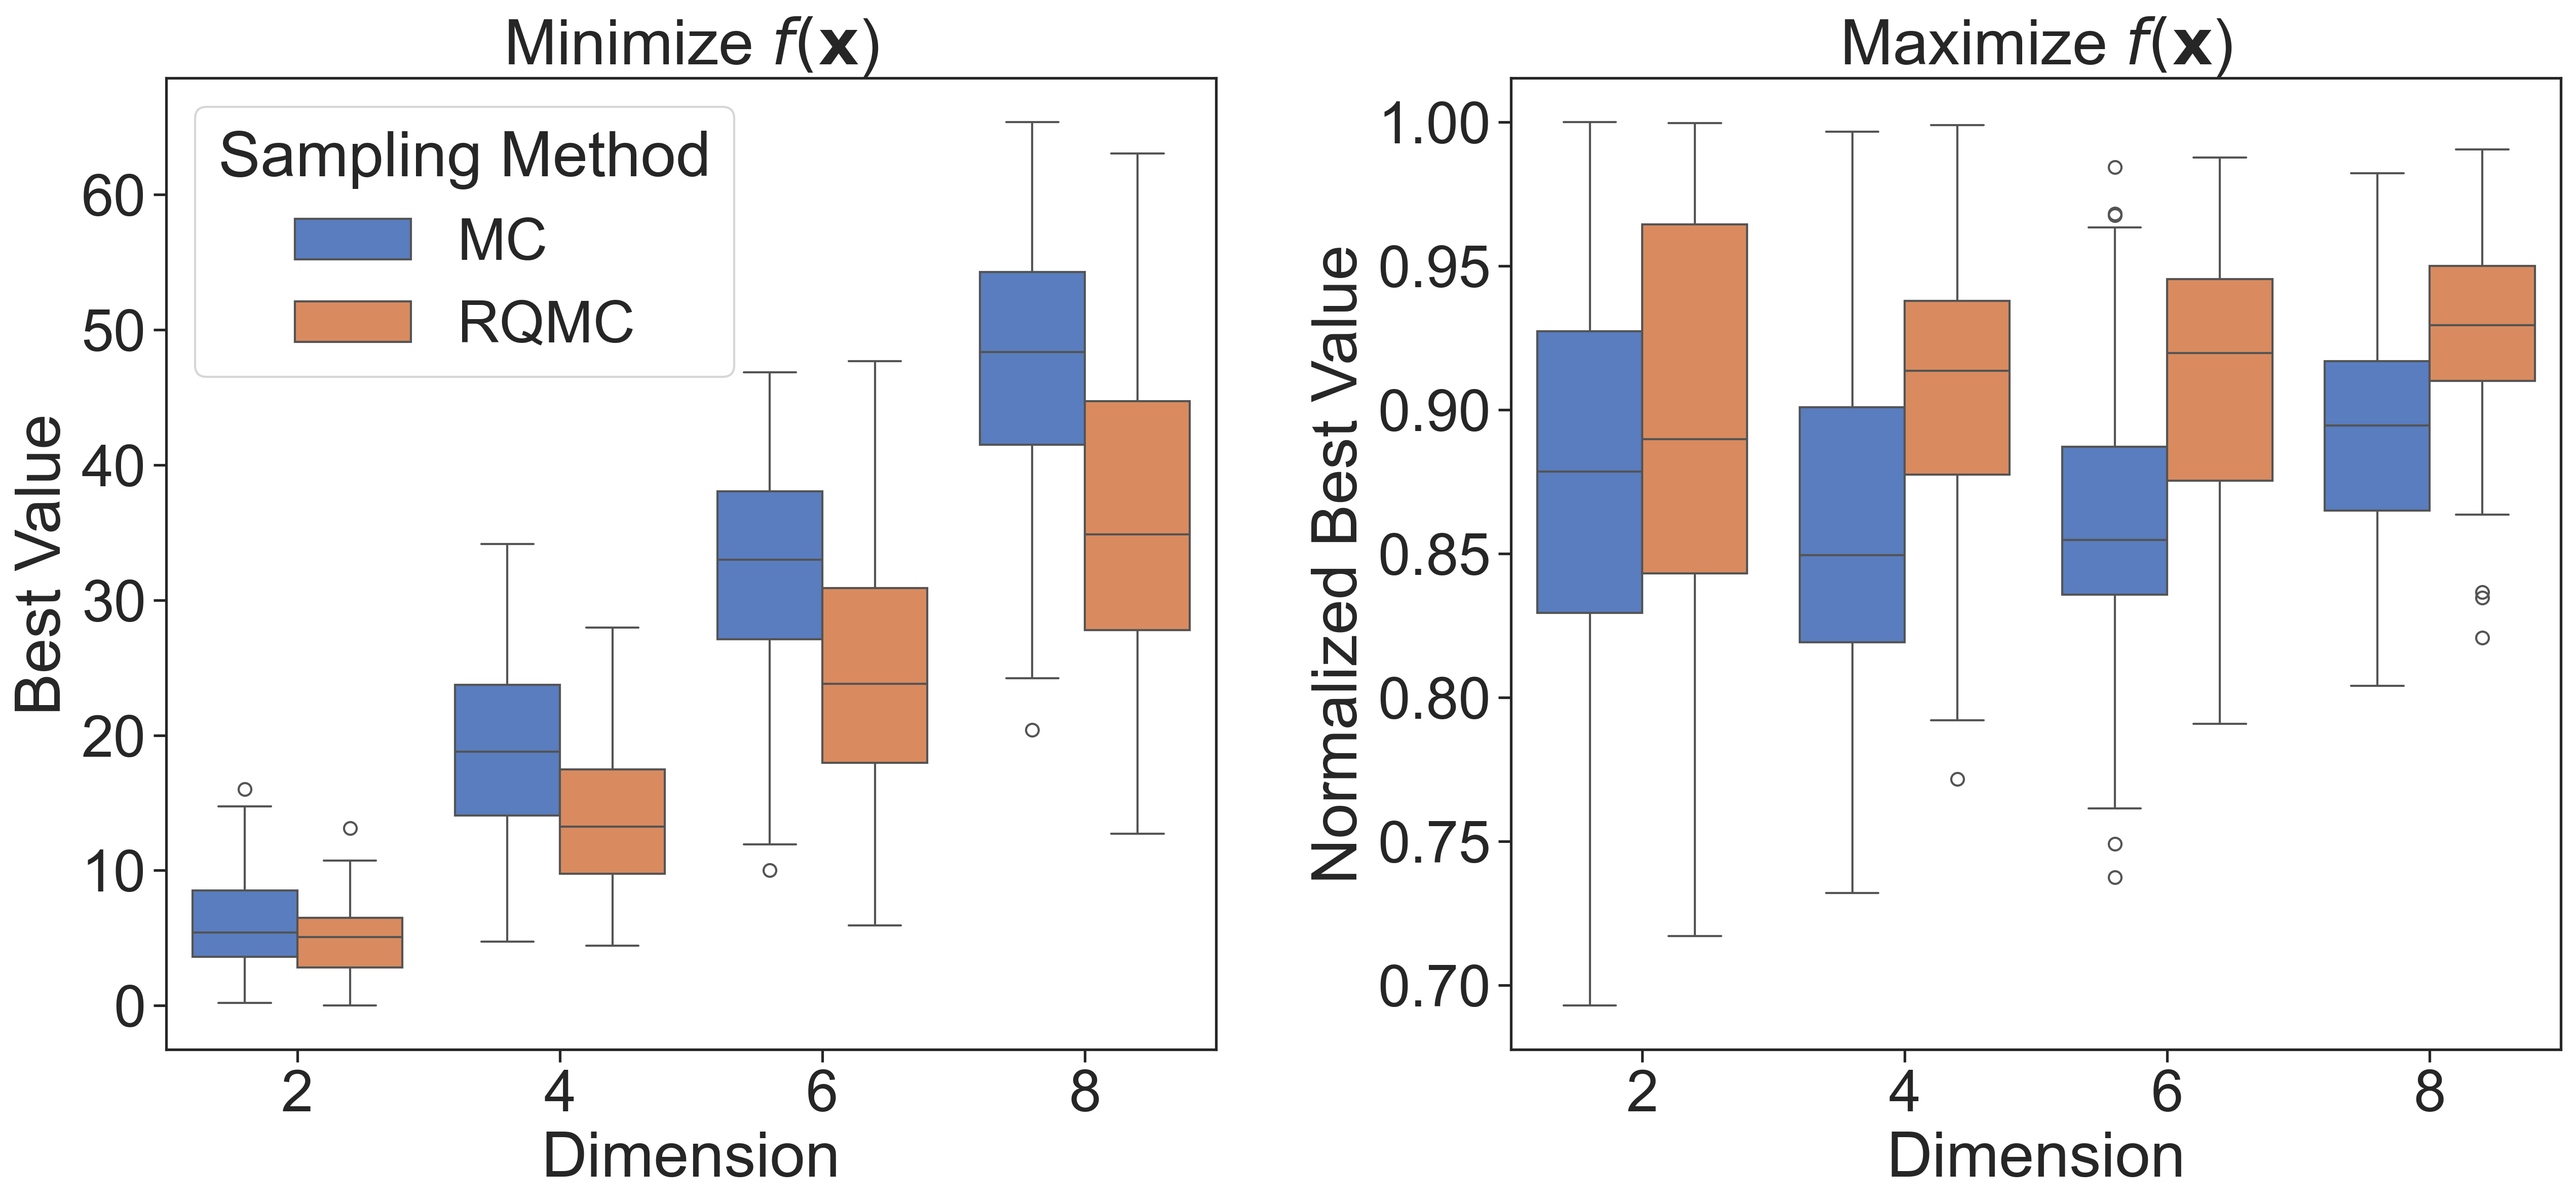
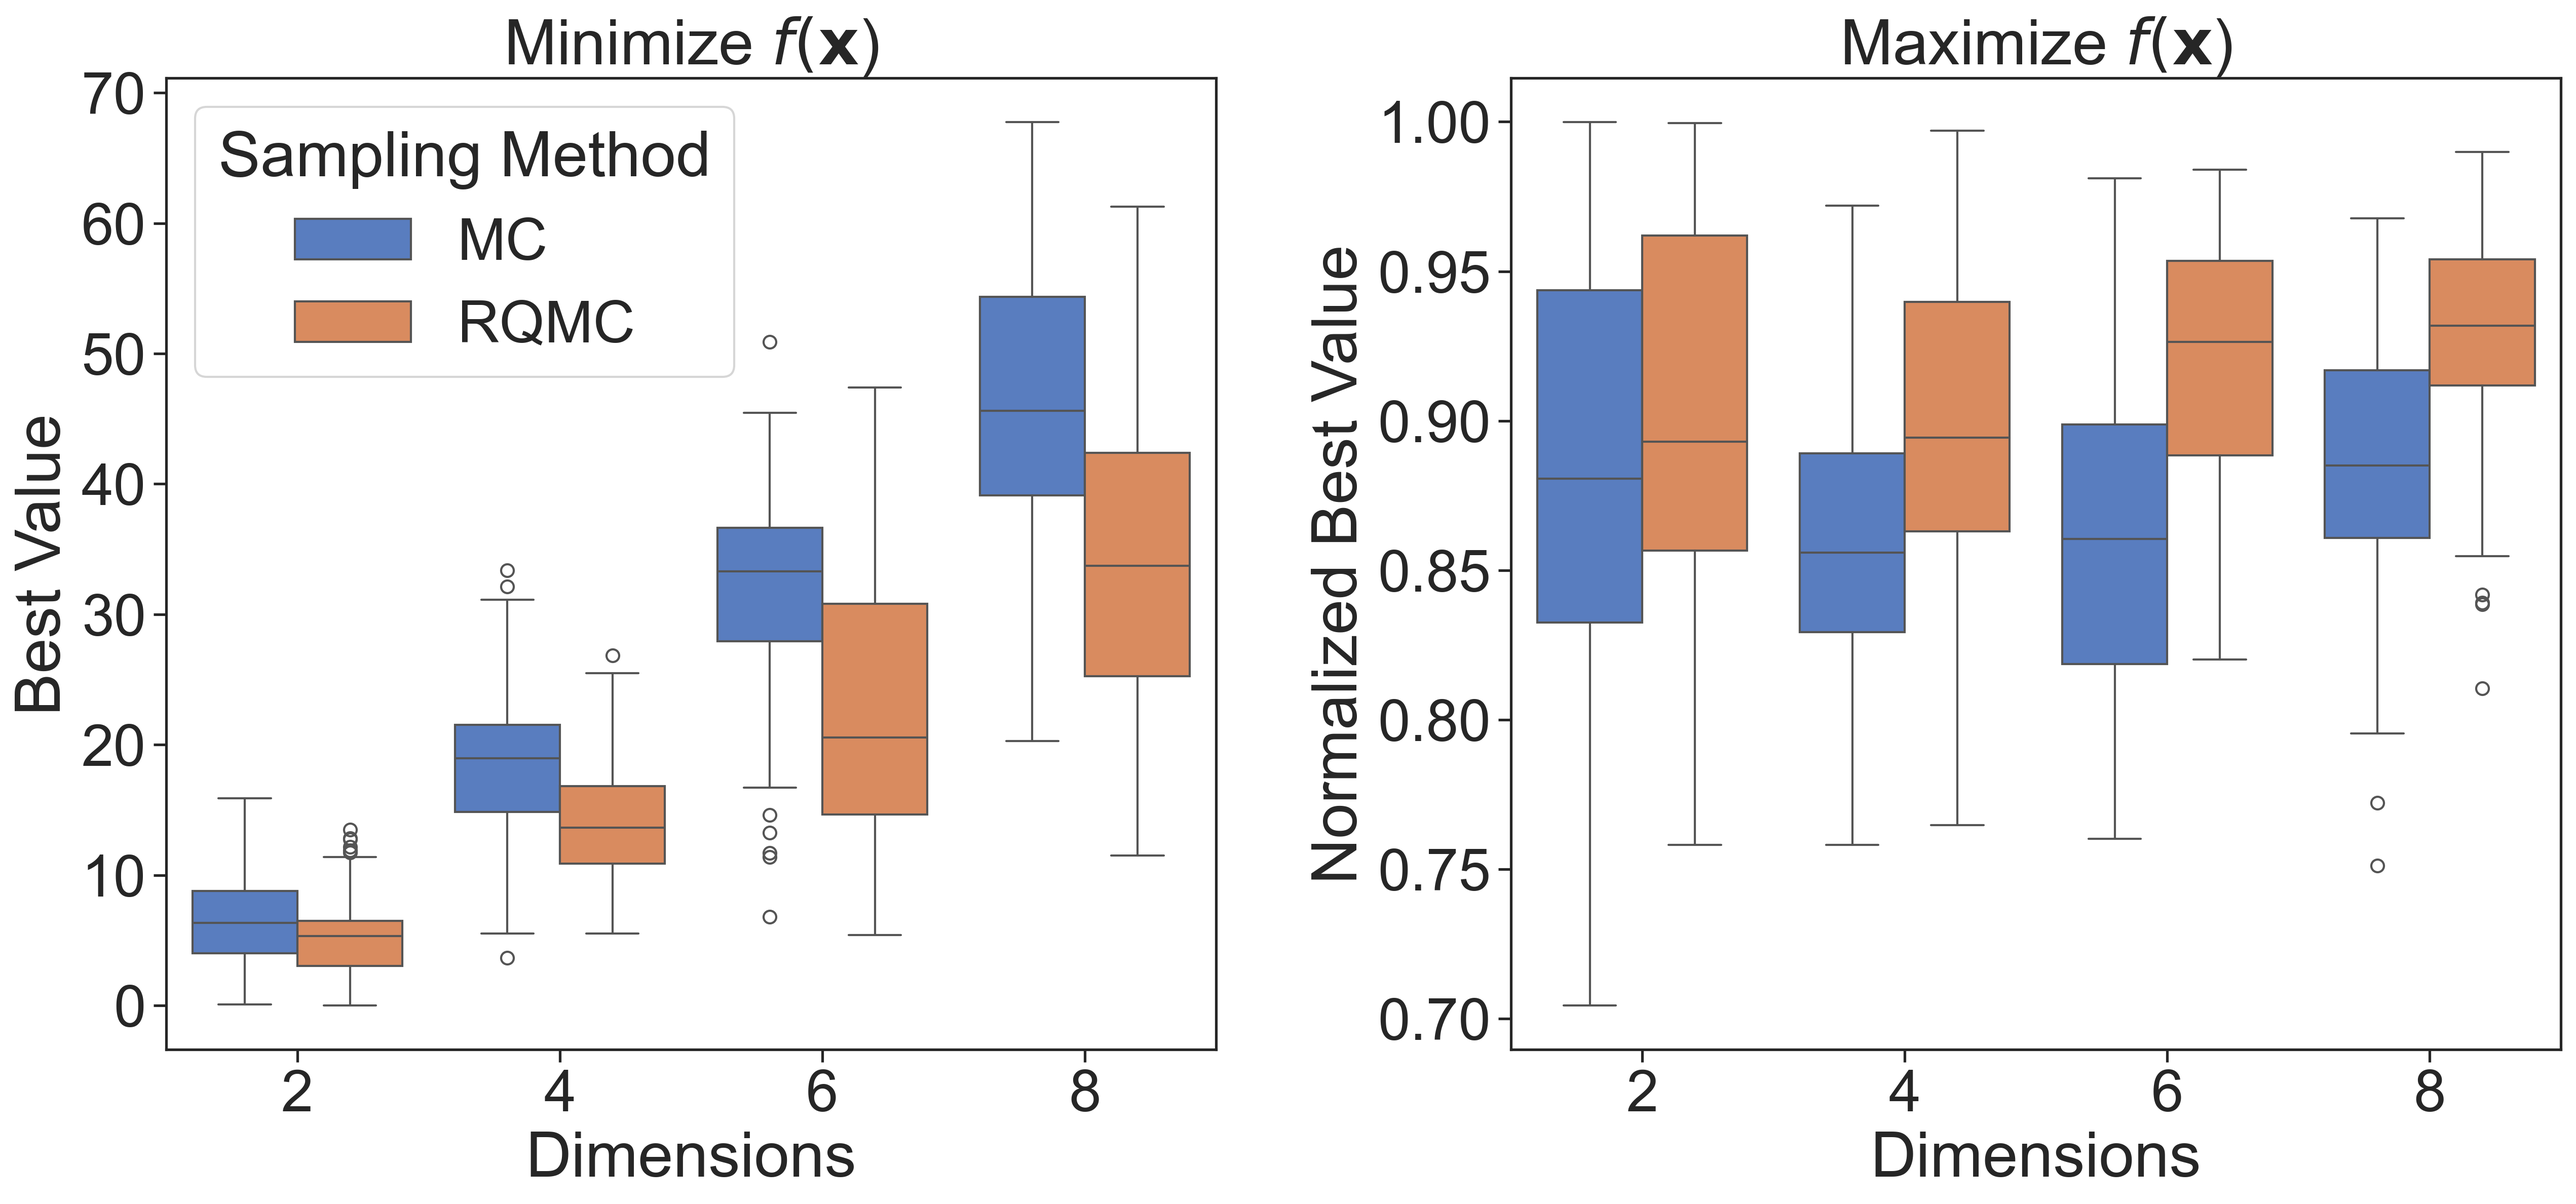
Dimension -> Dimensions, single to double quotes

diff --git a/figures.py b/figures.py
@@ -90,7 +90,7 @@ if __name__ == "__main__":
     Z = Rastrigin(x).reshape(X.shape)
 
     im = ax.pcolormesh(X, Y, Z, cmap="jet")
-    ax.contour(X, Y, Z, colors='white', alpha=0.5)
+    ax.contour(X, Y, Z, colors="white", alpha=0.5)
 
     ax.set_xlabel(r"$x_{1}$")
     ax.set_ylabel(r"$x_{2}$", rotation=0, labelpad=20)
@@ -100,24 +100,24 @@ if __name__ == "__main__":
     cbar = plt.colorbar(im, cax=cax)
 
     fig.tight_layout(pad=0.5)
-    plt.savefig('./figures/rastrigin.png', dpi=300, bbox_inches='tight')
+    plt.savefig("./figures/rastrigin.png", dpi=300, bbox_inches="tight")
 
     
     # Load saved data
-    df_max = pd.read_pickle('./data/maximize_df.pkl')
-    df_min = pd.read_pickle('./data/minimize_df.pkl')
+    df_max = pd.read_pickle("./data/maximize_df.pkl")
+    df_min = pd.read_pickle("./data/minimize_df.pkl")
 
     # Normalize max values
     # max f(x) = dim * 40.35329019
-    df_max['Best Value'] = df_max.apply(lambda x: x['Best Value'] / (x['Dimension']*40.35329019), axis=1)
+    df_max["Best Value"] = df_max.apply(lambda x: x["Best Value"] / (x["Dimensions"]*40.35329019), axis=1)
 
     # Optimization figure
     fig, axs  = plt.subplots(figsize=(18,9),ncols=2)
-    sns.boxplot(data=df_min, x='Dimension', y='Best Value', hue='Sampling Method', ax=axs[0])
-    sns.boxplot(data=df_max, x='Dimension', y='Best Value', hue='Sampling Method', ax=axs[1], legend=False)
+    sns.boxplot(data=df_min, x="Dimensions", y="Best Value", hue="Sampling Method", ax=axs[0])
+    sns.boxplot(data=df_max, x="Dimensions", y="Best Value", hue="Sampling Method", ax=axs[1], legend=False)
     axs[0].set_title(r"Minimize $f(\mathbf{x}$)")
     axs[0].set_ylabel("Best Value")
     axs[1].set_title(r"Maximize $f(\mathbf{x}$)")
     axs[1].set_ylabel("Normalized Best Value")
     fig.tight_layout(pad=1.5)
-    fig.savefig('./figures/optimization.png', dpi=300, bbox_inches='tight')
+    fig.savefig("./figures/optimization.png", dpi=300, bbox_inches="tight")

diff --git a/toy_problem.py b/toy_problem.py
@@ -64,7 +64,7 @@ if __name__ == "__main__":
 
         for dim in dimensions:
             
-            print(f"Dimension: {dim}")
+            print(f"Dimensions: {dim}")
 
             def objective(trial: optuna.Trial):
                 """Suggest and evaluate new point in sample space.
@@ -102,14 +102,14 @@ if __name__ == "__main__":
 
                 # record best MC value
                 dataDict["Sampling Method"].append("MC")
-                dataDict["Dimension"].append(dim)
+                dataDict["Dimensions"].append(dim)
                 dataDict["Best Value"].append(mc_study.best_value)
 
                 # record best RQMC value
                 dataDict["Sampling Method"].append("RQMC")
-                dataDict["Dimension"].append(dim)
+                dataDict["Dimensions"].append(dim)
                 dataDict["Best Value"].append(rqmc_study.best_value)
             
         # save as DataFrame
         df = pd.DataFrame.from_dict(dataDict)
-        pd.to_pickle(df, f'./data/{direction}_df.pkl')
+        pd.to_pickle(df, f"./data/{direction}_df.pkl")
